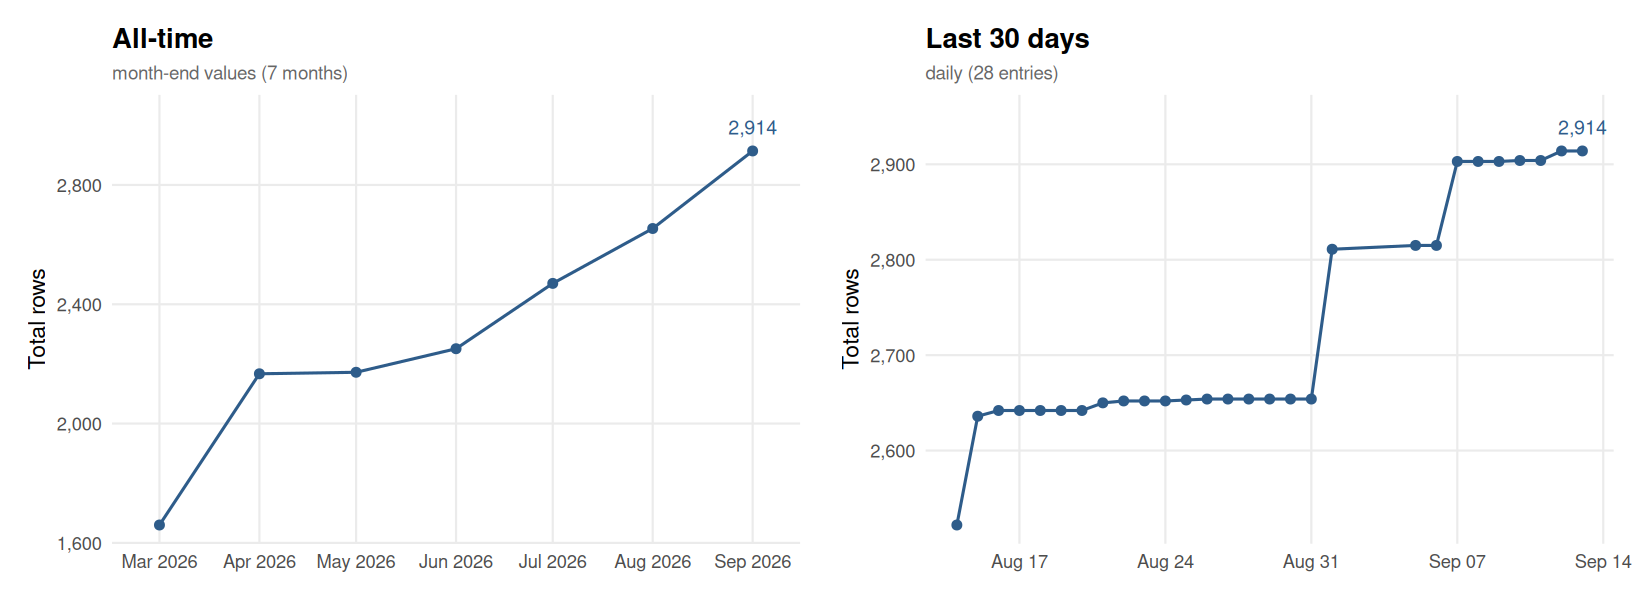
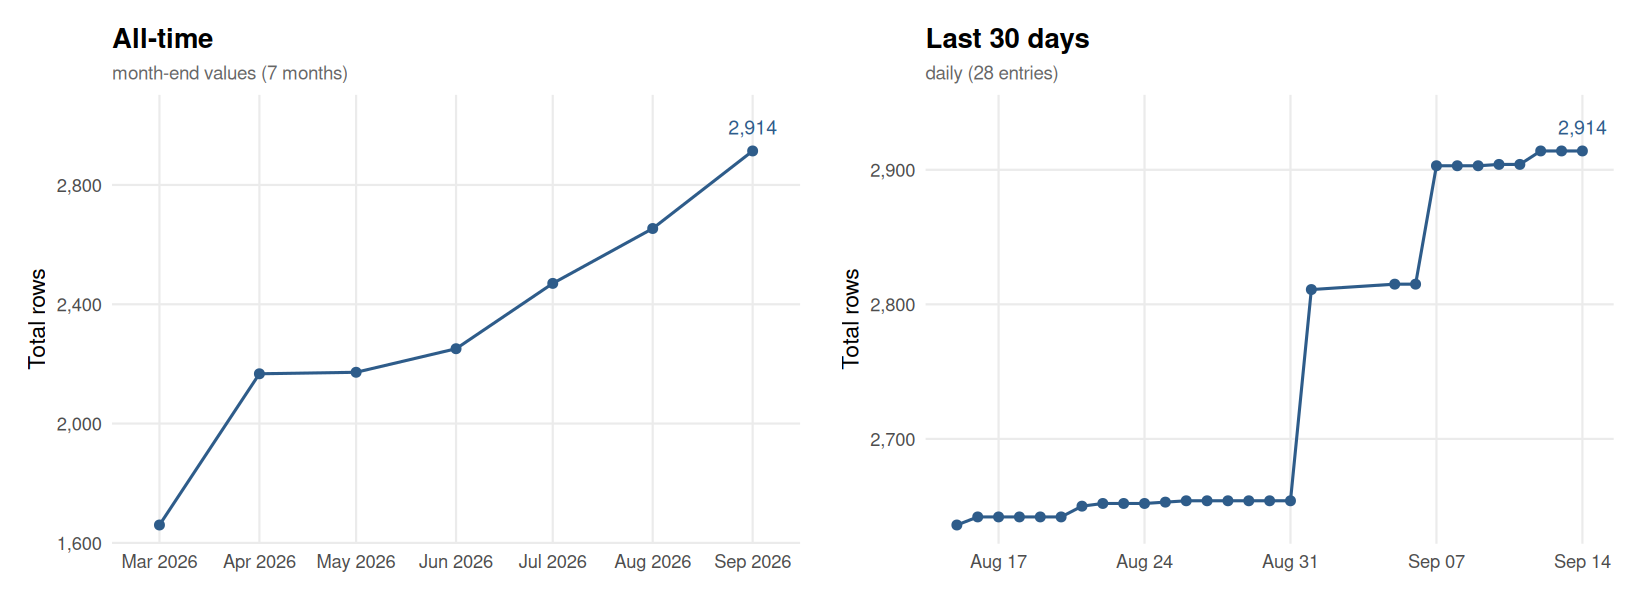
Update flora.csv [automated]

diff --git a/README.md b/README.md
@@ -438,14 +438,15 @@ For API issues:
 This chart is automatically updated after each pipeline run, showing the size of `output/flora.csv` over time.
 
 <!-- FLORA_UPDATE_LOG_START -->
-> **Latest (2026-09-13):** Total = 2,914 | Replications = 2,557 | Reproductions = 357
+> **Latest (2026-09-14):** Total = 2,914 | Replications = 2,557 | Reproductions = 357
 
 ![FLoRA dataset size over time](output/flora_history.png)
 
-<details><summary>Full history (171 entries)</summary>
+<details><summary>Full history (172 entries)</summary>
 
 | Date | Total | Replications | Reproductions |
 |------|------:|-------------:|--------------:|
+| 2026-09-14 | 2914 | 2557 | 357 |
 | 2026-09-13 | 2914 | 2557 | 357 |
 | 2026-09-12 | 2914 | 2557 | 357 |
 | 2026-09-11 | 2904 | 2557 | 347 |
